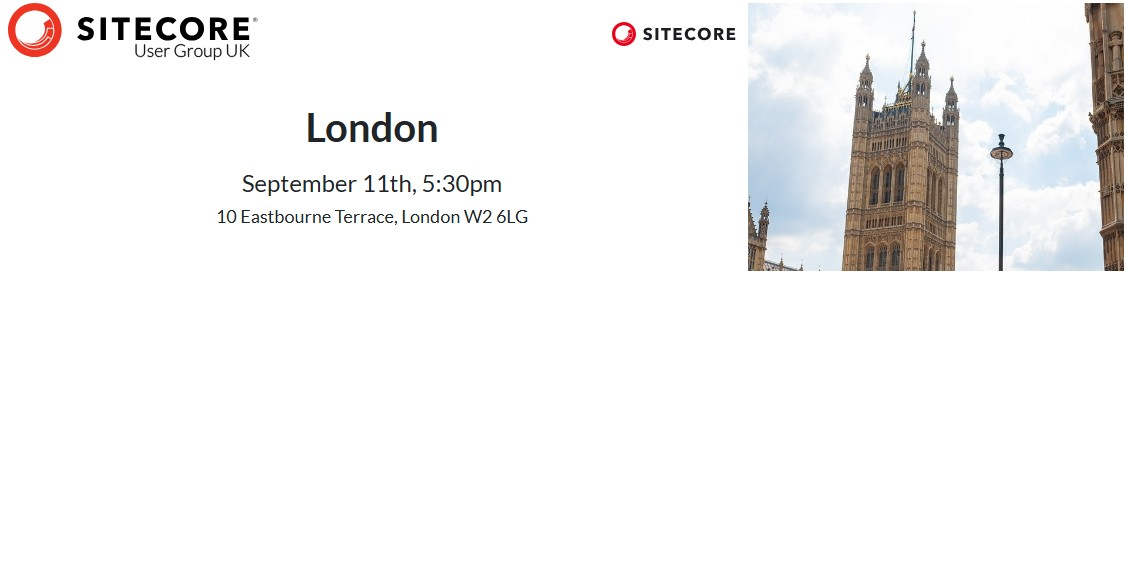
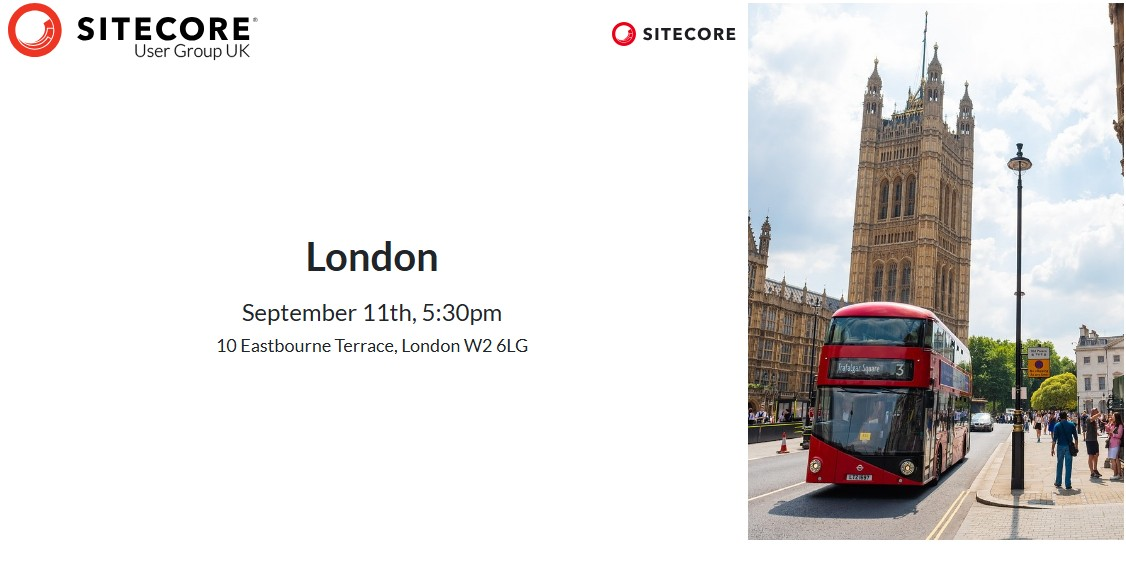
Event ads now look better when no talks planned

diff --git a/src/components/EventAdvert/EventAdvert.tsx b/src/components/EventAdvert/EventAdvert.tsx
@@ -49,6 +49,7 @@ type EventAdvertProps = {
 const EventAdvert = ({ event, speakers, sponsors }: EventAdvertProps) => {
   const date = new Date(event.dateTimestamp);
   const [sponsor] = sponsors;
+  const noTalks = event.agenda.filter(isTalk).length === 0;
 
   return (
     <Container>
@@ -66,10 +67,12 @@ const EventAdvert = ({ event, speakers, sponsors }: EventAdvertProps) => {
                 />
               )}
             </div>
-            <section className={styles.eventAdvert__city}>{event.location}</section>
+            <section className={cn(styles.eventAdvert__city, { [styles[`eventAdvert__city--no-talks`]]: noTalks })}>
+              {event.location}
+            </section>
             <section className={styles.eventAdvert__date}>{formatDate(date, 'MMMM do, h:mmaaa')}</section>
             <section className={styles.eventAdvert__address}>{event.venue.address}</section>
-            <section className={styles.eventAdvert__talks}>
+            <section className={cn(styles.eventAdvert__talks, { [styles[`eventAdvert__talks--empty`]]: noTalks })}>
               {event.agenda.filter(isTalk).map((agendaItem, i) => (
                 <EventAdvertTalk
                   key={i}

diff --git a/src/components/EventAdvert/EventAdvert.module.scss b/src/components/EventAdvert/EventAdvert.module.scss
@@ -15,8 +15,8 @@
   }
 
   &__sponsorImage {
-    max-width: 250px;
-    max-height: 50px;
+    max-width: 300px;
+    max-height: 75px;
   }
 
   &__talks {
@@ -24,6 +24,10 @@
     flex-direction: row;
     justify-content: center;
     column-gap: 0rem;
+
+    &--empty {
+      margin-bottom: 140px;
+    }
   }
 
   &__entry {
@@ -65,6 +69,10 @@
     font-size: 40px;
     font-weight: bold;
     margin: 30px 0 0;
+
+    &--no-talks {
+      margin: 159px 0 0;
+    }
   }
 
   &__date {
